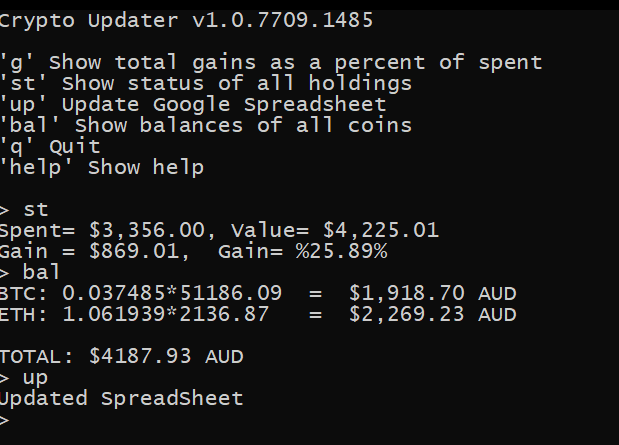
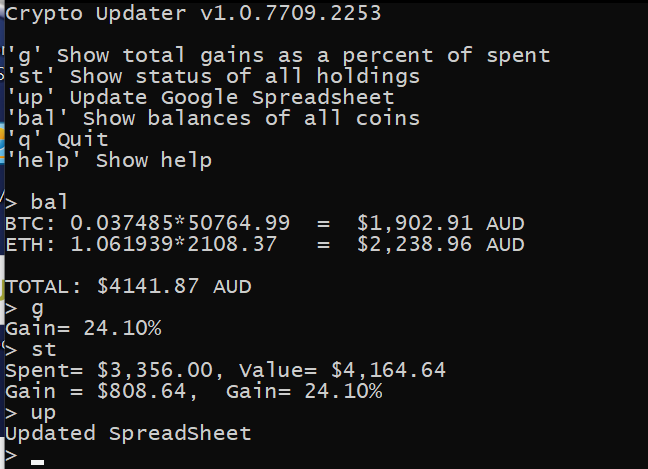
Update demo image.

diff --git a/CoinSpotUpdater/Program.cs b/CoinSpotUpdater/Program.cs
@@ -116,7 +116,7 @@ namespace CoinSpotUpdater
             var gain = entries[2][0];
             var gainPercent = entries[3][0];
             Console.WriteLine($"Spent= {spent:C}, Value= {value:C}");
-            Console.WriteLine($"Gain = {gain:C},  Gain= %{gainPercent:0.##}");
+            Console.WriteLine($"Gain = {gain:C},  Gain= {gainPercent:0.##}");
         }
 
         private void CallCoinSpot(string input)
